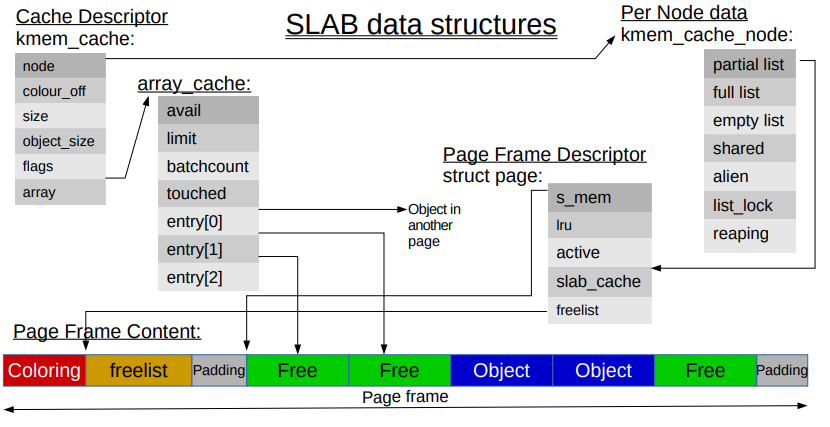
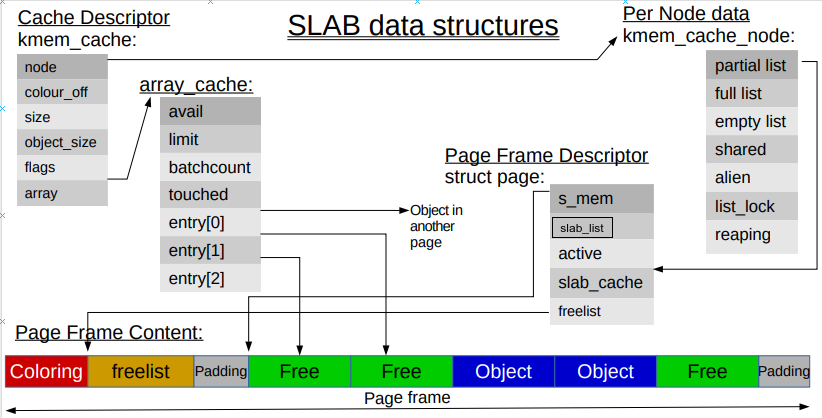
slob basic

Changed region(s): [[0.0, 0.0, 1.0, 0.9952]]

diff --git a/slab_allocator.md b/slab_allocator.md
@@ -2,7 +2,7 @@
 
 Author: Andrea Di Dio
 
-If you have any further questions or suggestions after reading this writeup feel free to contact me at a.didio@student.vu.nl or on Twitter (@hammertux). I will try to answer any questions or adopt any suggestions :)
+If you have any further questions or suggestions after reading this writeup feel free to contact me at a.didio@student.vu.nl or on Twitter ([@hammertux](https://twitter.com/hammertux "hammertux")). I will try to answer any questions or adopt any suggestions :)
 
 ## Introduction
 
@@ -58,7 +58,7 @@ _Note that in reality, the linux kernel maintainers have optimised the buddy all
 
 The slab allocator in linux sits on top of the buddy allocator and the basic idea behind it is to keep caches of commonly used objects available for allocation in the kernel. This is particularly useful because the linux kernel allocates and frees many structures continuously (for example, the `struct task_struct` which is the structure that represents a process, `inodes`, `dentries`, etc...). By caching the freed object, it is possible for the basic structure to be preserved betweeen uses thus allowing for quick allocation of new copies of the same structures. I.e., By reusing the freed objects, in some cases, the kernel doesn't necessarily have to reinitialise them from scratch. Over the years (and many kernel versions...) the linux slab allocator has evolved, and changed substantially. There have been three different implementations to this day:
 
-1. __SLOB Allocator__: Now used for embedded systems where memory is scarce, performs well when allocating very small chunks of memory. Based on the _first-fit_ allocation algorithm.
+1. __SLOB Allocator__: Was the original slab allocator as implemented in _Solaris OS_. Now used for embedded systems where memory is scarce, performs well when allocating very small chunks of memory. Based on the _first-fit_ allocation algorithm.
 2. __SLAB Allocator__: An improvement over the SLOB allocator, aims to be very _"cache-friendly"_.
 3. __SLUB Allocator__: Has better execution time than the SLAB allocator by reducing the number of queues/chains used.
 
@@ -152,6 +152,10 @@ struct vm_area_struct *vma = kmem_cache_alloc(vm_area_cachep, GFP_KERNEL);
  */
 ```
 
+
+
+
+
 #### __SLAB Cache Management__
 
 The three main structures that are used to manage caches in the __SLAB allocator__ are:
@@ -173,6 +177,8 @@ I have already showed that `struct kmem_cache` is exposed to the programmer in o
 The interplay of these data structures and how the SLAB allocator helps to partition a page frame into separate chunks of objects is depicted below:
 
 ![SLAB-DS](./SLAB-DS.png "SLAB Structures")
+
+__Note:__ In previous kernels, the developers where overloading the lru list in the page struct for maintaining lists of slabs. Today, this management is done via the `slab_list`. Seen as the image is older than this patch, I had to adjust it.
 
 #### __SLUB Cache Management__
 
@@ -197,6 +203,24 @@ As I did with the SLAB allocator, I will go through some fields of the `struct k
 The interplay of these structures is showed below:
 
 ![SLUB Structures](./SLUB-DS.png "SLUB Structures")
+
+#### __What about SLOB?__
+
+The SLOB (Simple List Of Blocks) allocator, is very different in nature from the SLAB and SLUB allocators because it doesn't maintain cache descriptors, which makes object management very simple. The SLOB allocator keeps track of partially free slob pages in three separate freelists defined in `"/mm/slob.c"`:
+
+1. `free_slob_small` : freelist for pages containing objects smaller than 256 Bytes.
+2. `free_slob_medium` : freelist for pages containing objects smaller than 1024 Bytes.
+3. `free_slob_large` : freelist for pages containing all other objects (smaller than `PAGE_SIZE`).
+
+Even though cache management is essentially avoided, the SLOB allocator still provides the common interfaces such as `kmalloc()`, `kfree`, `kmem_cache_alloc()` and so on... These are however, only wrappers around the `slob_alloc()` and `slob_free()` functions which operate on the three lists mentioned above.
+
+SLOB also has a very light support for NUMA architectures and only does node accounting, but makes the buddy allocator deal with per node allocation of pages. nevertheless, note that the three lists are node per-cpu lists and instead, are global, pages from all the nodes will be inserted in the three global lists.
+
+Every time we try to allocate an object using the SLOB allocator, the `slob_alloc()` routine will iterate through each partially free page in one of the three lists (depending on the size of the object we are trying to allocate) and will try to do allocation using a __first-fit__ algorithm. The obvious downside of this approach is that we can end up in a state in which the memory is heavily fragmented.
+
+The interplay of these structures is showed below:
+
+![SLOB Structures](./SLOB-DS.png "SLOB Structures")
 
 ### __Slabs__
 
@@ -248,7 +272,7 @@ struct page {
 I will first explain __SLAB__ specific members in order to show the interplay with the structures explained in the _Caches section_ for SLAB.
 Some of these structure members are more interesting and help with the understanding of how slabs are managed:
 
-* `void *s_mem` : points to the start of an object in the page frame.
+* `void *s_mem` : Points to the start of an object in the page frame.
 * `struct kmem_cache *slab_cache` : Used by the `struct kmem_cache_node` structure to keep track of lists of all the pages.
 * `struct list_head slab_list` : Used to keep track of which slab list(partial/full/free) this page frame belongs to.
 * `void *freelist` : Is used to point to the first free object in the page frame. Intuitively, it contains indeces for every free object in the page frame. Allows multiple requests for free objects to be satisfied from the same cacheline.
@@ -271,6 +295,17 @@ Now, let's take a look at some members of the `struct page` which are needed for
 The objects in SLUB which make up a slab page are shown below:
 
 ![SLUB-Obj Layout](./SLUB-Obj.png "SLUB Object Layout")
+
+#### __SLOB slab management__
+
+Within a slob page, the SLOB allocator uses a few members from the strut page in order to manage object placement within a page:
+
+* `void *freelist` : Points to the first free object in the page. From the first free object it is possible to traverse the other free objects in the same page.
+* `void *s_mem` : Points to the start of an object in the page frame.
+
+The objects in SLOB which make up a slab page are shown below:
+
+![SLOB-Obj Layout](./SLOB-Obj.png "SLOB Object Layout")
 
 ### Slab Allocator Placement:
 
@@ -295,7 +330,7 @@ These two functions are some wrappers around the lower-level `alloc_pages` and `
 
 ## Concluding Thoughts
 
-In this writeup i have covered the basics of two of the memory allocators that live in the Linux kernel, i.e., Buddy allocator and Slab allocator. By this point it should be somewhat clear how they work together in order to increase memory usage. I have covered how SLAB and SLUB differ without having explained SLOB (for now). I might cover vmalloc() in the future as well. Hopefully the `mm` subtree is now _slightly_ less scary :).
+In this writeup I have covered the basics of two of the memory allocators that live in the Linux kernel, i.e., Buddy allocator and Slab allocator. By this point it should be somewhat clear how they work together in order to increase memory usage. I have covered how SLAB and SLUB differ and gave a brief explanation of SLOB. I might cover vmalloc() in the future as well, possibly in a separate post. Hopefully the `mm` subtree is now _slightly_ less scary :).
 
 ## References
 
